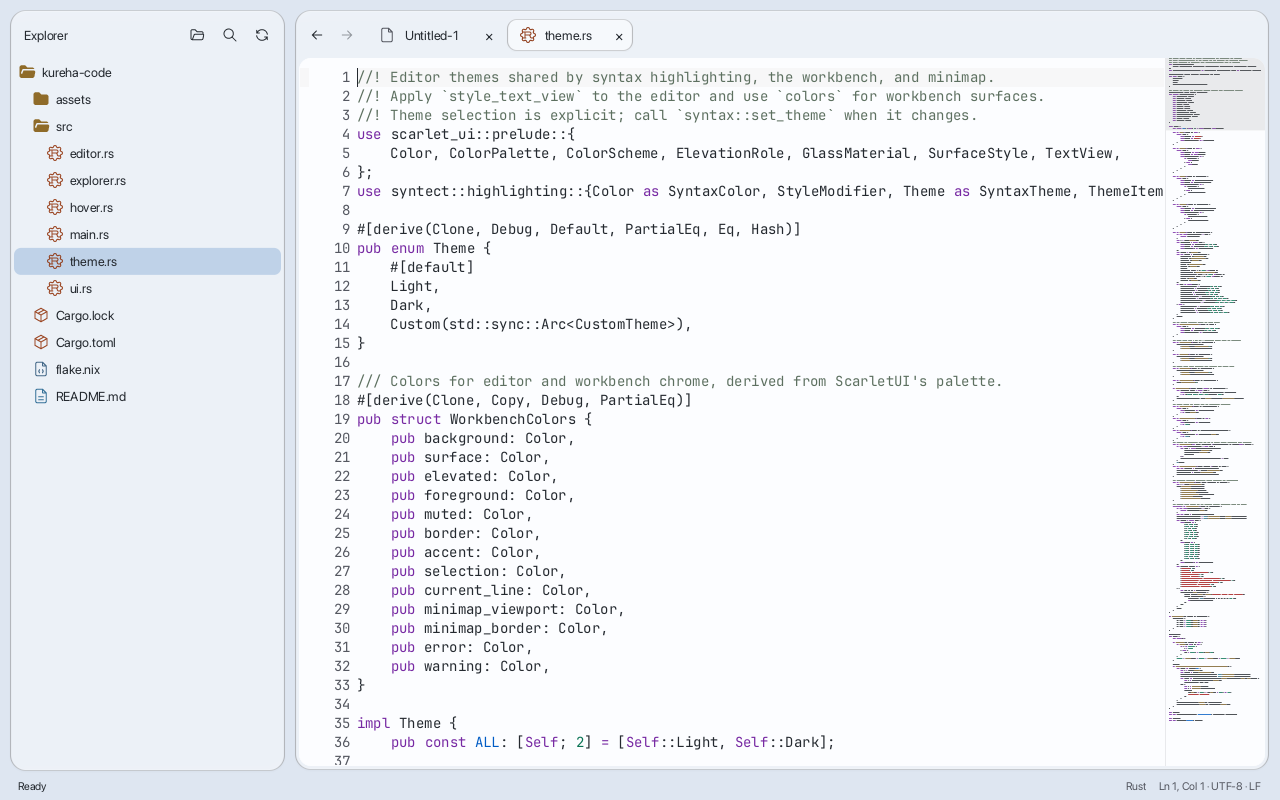
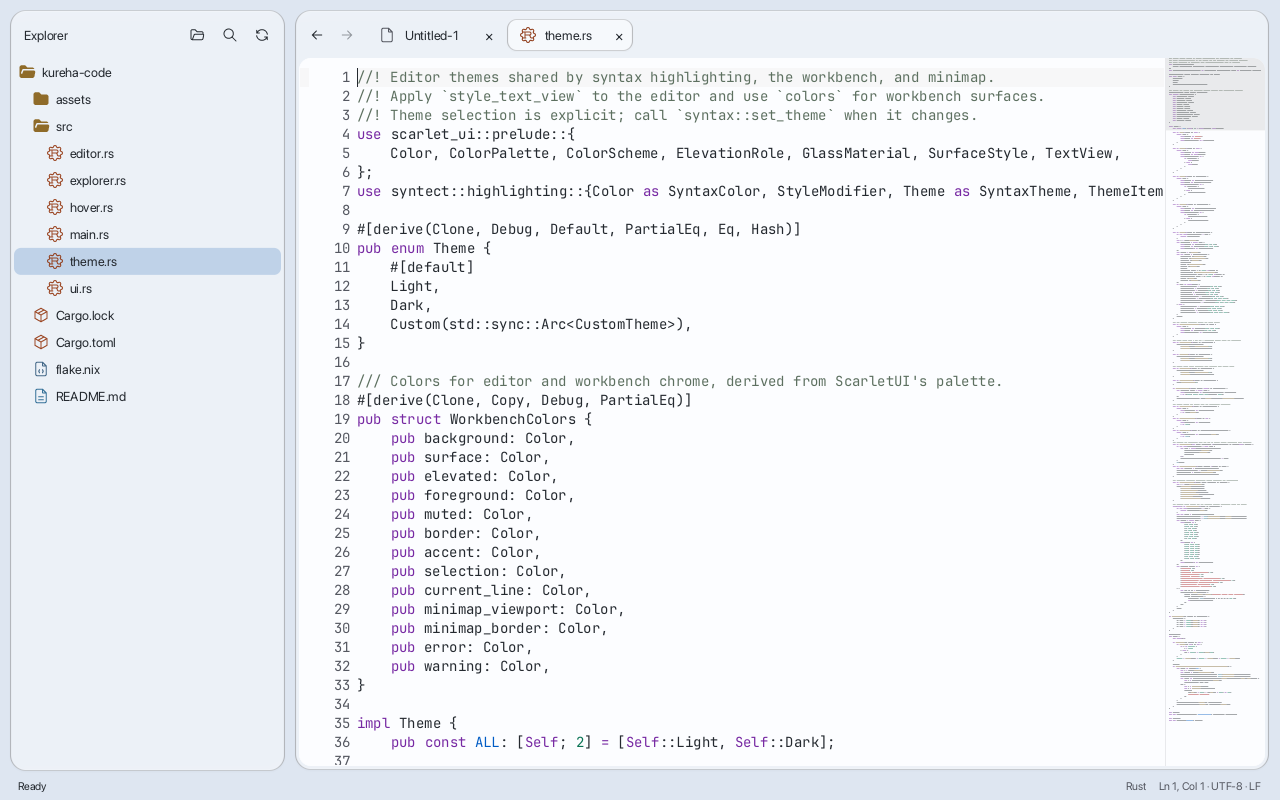
Soften minimap source marks with reduced opacity

Changed region(s): [[0.9062, 0.0625, 0.9688, 0.9062]]

diff --git a/src/minimap.rs b/src/minimap.rs
@@ -553,7 +553,7 @@ impl ElementRenderObject for SurfaceRenderer {
                         (mark.columns.len() as f32 * column_width).max(0.5),
                         bottom - top,
                     ),
-                    Color { a: 0.80, ..color },
+                    Color { a: color.a * 0.40, ..color },
                 );
             }
         }

diff --git a/docs/validation.md b/docs/validation.md
@@ -364,3 +364,8 @@ Validation on macOS AArch64:
   CUA's drag command timed out; a subsequent process sample was idle in the
   AppKit event loop. Native drag/back-button interaction is not claimed verified.
   Scarlet-native runtime testing remains outstanding.
+
+The minimap source marks subsequently changed from 80% to 40% opacity (also
+respecting any alpha in the syntax color). The viewport indicator remains at
+15% neutral fill. All 12 minimap tests and all 18 rendered fixtures passed again;
+Light/Monokai screenshots were refreshed after visual review.
